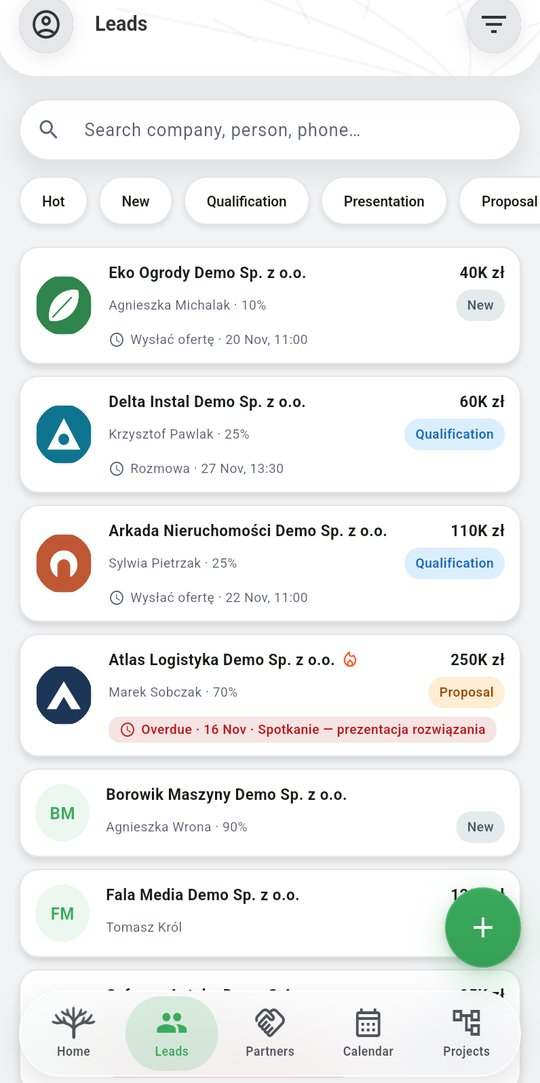
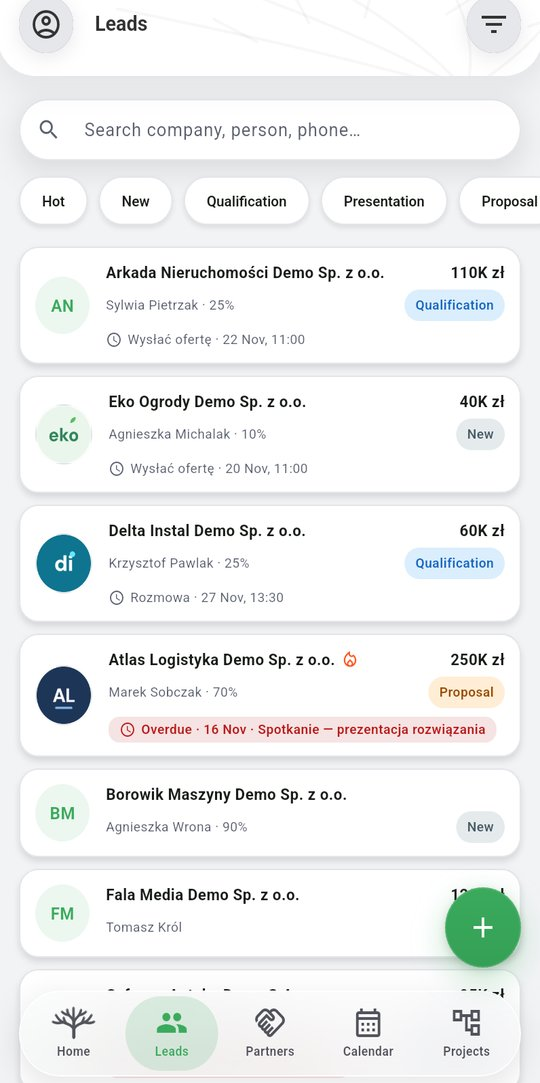
docs(instrukcja): lista leadów w telefonie z okrągłymi logotypami firm demo

diff --git a/src/assets/manual/ru.html b/src/assets/manual/ru.html
@@ -438,7 +438,7 @@ nav.toc .grp{margin:12px 0 2px;padding:0 10px;font-size:12.5px;font-weight:700;c
 <h4 id="p1-leads-mobile"><span class="tag mob">MOBILE</span>Лиды на телефоне</h4>
 <p>На вкладке <b>«Лиды»</b> есть поле <b>«Поиск компании, контакта, телефона…»</b> и чипы для <b>«Горячий»</b> и каждого этапа (<b>«Новый»</b>, <b>«Квалификация»</b>, <b>«Презентация»</b> и так далее). Сначала идут недавно обновлённые лиды. В первой строке плитки — компания и сумма (например, <b>«250 тыс. zł»</b>), во второй — контакт с вероятностью, справа — этап. Третья строка появляется только при задаче со сроком: просроченная — красной меткой <b>«Просроченные · 10 нояб. · …»</b>, ближайшая запланированная — серым. Пламя рядом с названием означает горячий лид. Значок воронки в правом верхнем углу открывает <b>«Фильтры»</b>: <b>«Этап»</b> (включая «Архив»), <b>«Источник»</b>, переключатели <b>«Горячий»</b>, <b>«Только на паузе»</b> и <b>«Только мои»</b>, а для руководителей – <b>«Менеджер по продажам»</b>. Завершите кнопкой <b>«Сбросить»</b> или <b>«Применить»</b>.</p>
 <div class="phones">
-<figure class="phone"><img loading="lazy" src="img/en_t13_leads_list.jpg?v=20261116c" width="540" height="1083" alt="Список лидов на телефоне"><figcaption>«Лиды»: поиск, чипы этапов и плитки лидов.</figcaption></figure>
+<figure class="phone"><img loading="lazy" src="img/en_t13_leads_list.jpg?v=20261116d" width="540" height="1083" alt="Список лидов на телефоне"><figcaption>«Лиды»: поиск, чипы этапов и плитки лидов.</figcaption></figure>
 <figure class="phone"><img loading="lazy" src="img/en_t14_leads_filters.jpg?v=20261113" width="540" height="1083" alt="Фильтры лидов"><figcaption>«Фильтры»: этап, источник, горячий, на паузе, только мои.</figcaption></figure>
 </div>
 </section>

diff --git a/src/assets/manual/fr.html b/src/assets/manual/fr.html
@@ -438,7 +438,7 @@ nav.toc .grp{margin:12px 0 2px;padding:0 10px;font-size:12.5px;font-weight:700;c
 <h4 id="p1-leads-mobile"><span class="tag mob">MOBILE</span>Les leads sur le téléphone</h4>
 <p>L’onglet <b>« Leads »</b> comporte un champ <b>« Rechercher une société, une personne, un téléphone… »</b> et des puces pour <b>« Chauds »</b> et chaque étape (<b>« Nouveau »</b>, <b>« Qualification »</b>, <b>« Présentation »</b>, etc.). Les leads récemment mis à jour viennent en premier. La première ligne de la tuile affiche l’entreprise et la valeur (par exemple <b>« 250 k zł »</b>), la deuxième le contact avec la probabilité et, à droite, l’étape. Une troisième ligne n’apparaît que pour une activité datée : en retard sous forme d’étiquette rouge <b>« En retard · 10 nov. · … »</b>, la prochaine prévue en gris. Une flamme à côté du nom signale un lead chaud. L’icône d’entonnoir en haut à droite ouvre les <b>« Filtres »</b> : <b>« Étape »</b> (y compris Archivés), <b>« Source »</b>, des interrupteurs pour <b>« Chauds »</b>, <b>« En attente uniquement »</b> et <b>« Les miens uniquement »</b>, et pour les responsables <b>« Commercial »</b>. Terminez avec <b>« Effacer »</b> ou <b>« Appliquer »</b>.</p>
 <div class="phones">
-<figure class="phone"><img loading="lazy" src="img/en_t13_leads_list.jpg?v=20261116c" width="540" height="1083" alt="Liste des leads sur le téléphone"><figcaption>« Leads » : recherche, puces d’étapes et tuiles de leads.</figcaption></figure>
+<figure class="phone"><img loading="lazy" src="img/en_t13_leads_list.jpg?v=20261116d" width="540" height="1083" alt="Liste des leads sur le téléphone"><figcaption>« Leads » : recherche, puces d’étapes et tuiles de leads.</figcaption></figure>
 <figure class="phone"><img loading="lazy" src="img/en_t14_leads_filters.jpg?v=20261113" width="540" height="1083" alt="Filtres des leads"><figcaption>« Filtres » : étape, source, chaud, en attente, les miens uniquement.</figcaption></figure>
 </div>
 </section>

diff --git a/src/assets/manual/ro.html b/src/assets/manual/ro.html
@@ -438,7 +438,7 @@ nav.toc .grp{margin:12px 0 2px;padding:0 10px;font-size:12.5px;font-weight:700;c
 <h4 id="p1-leads-mobile"><span class="tag mob">MOBILE</span>Leaduri pe telefon</h4>
 <p>Fila <b>„Leaduri”</b> are o casetă <b>„Căutați companie, persoană, telefon…”</b> și chipuri pentru <b>„Fierbinți”</b> și pentru fiecare etapă (<b>„Nou”</b>, <b>„Calificare”</b>, <b>„Prezentare”</b> și așa mai departe). Leadurile actualizate recent apar primele. Primul rând al cardului arată compania și valoarea (de exemplu <b>„250 mii zł”</b>), al doilea contactul cu probabilitatea, iar în dreapta etapa. Un al treilea rând apare doar pentru o activitate cu termen: cea restantă ca etichetă roșie <b>„Restante · 10 nov. · …”</b>, următoarea planificată cu gri. O flacără lângă nume marchează un lead fierbinte. Pictograma pâlnie din colțul din dreapta sus deschide <b>„Filtre”</b>: <b>„Etapă”</b> (inclusiv Arhivat), <b>„Sursă”</b>, comutatoare pentru <b>„Fierbinți”</b>, <b>„Doar în așteptare”</b> și <b>„Doar ale mele”</b>, iar pentru manageri <b>„Agent de vânzări”</b>. Încheiați cu <b>„Resetare”</b> sau <b>„Aplicare”</b>.</p>
 <div class="phones">
-<figure class="phone"><img loading="lazy" src="img/en_t13_leads_list.jpg?v=20261116c" width="540" height="1083" alt="Lista de leaduri pe telefon"><figcaption>„Leaduri”: căutare, chipuri de etapă și casete de leaduri.</figcaption></figure>
+<figure class="phone"><img loading="lazy" src="img/en_t13_leads_list.jpg?v=20261116d" width="540" height="1083" alt="Lista de leaduri pe telefon"><figcaption>„Leaduri”: căutare, chipuri de etapă și casete de leaduri.</figcaption></figure>
 <figure class="phone"><img loading="lazy" src="img/en_t14_leads_filters.jpg?v=20261113" width="540" height="1083" alt="Filtre pentru leaduri"><figcaption>„Filtre”: etapă, sursă, fierbinte, în așteptare, doar ale mele.</figcaption></figure>
 </div>
 </section>

diff --git a/src/assets/manual/es.html b/src/assets/manual/es.html
@@ -437,7 +437,7 @@ nav.toc .grp{margin:12px 0 2px;padding:0 10px;font-size:12.5px;font-weight:700;c
 <h4 id="p1-leads-mobile"><span class="tag mob">MOBILE</span>Leads en el móvil</h4>
 <p>La pestaña <b>“Leads”</b> tiene un cuadro <b>“Buscar empresa, persona, teléfono…”</b> y chips para <b>“Calientes”</b> y cada etapa (<b>“Nuevo”</b>, <b>“Cualificación”</b>, <b>“Presentación”</b>, etc.). Los leads actualizados más recientemente aparecen primero. La primera línea de la tarjeta muestra la empresa y el valor (por ejemplo <b>«250 mil zł»</b>), la segunda el contacto con la probabilidad y, a la derecha, la etapa. Una tercera línea aparece solo si hay una actividad con fecha: la atrasada como etiqueta roja <b>«Atrasadas · 10 nov · …»</b>, la próxima planificada en gris. Una llama junto al nombre indica un lead caliente. El icono de embudo de la esquina superior derecha abre <b>“Filtros”</b>: <b>“Etapa”</b> (incluidos los archivados), <b>“Origen”</b>, interruptores para <b>“Calientes”</b>, <b>“Solo en espera”</b> y <b>“Solo los míos”</b> y, para los responsables, <b>“Comercial”</b>. Termina con <b>“Borrar”</b> o <b>“Aplicar”</b>.</p>
 <div class="phones">
-<figure class="phone"><img loading="lazy" src="img/en_t13_leads_list.jpg?v=20261116c" width="540" height="1083" alt="Lista de leads en el móvil"><figcaption>“Leads”: búsqueda, chips de etapa y tarjetas de leads.</figcaption></figure>
+<figure class="phone"><img loading="lazy" src="img/en_t13_leads_list.jpg?v=20261116d" width="540" height="1083" alt="Lista de leads en el móvil"><figcaption>“Leads”: búsqueda, chips de etapa y tarjetas de leads.</figcaption></figure>
 <figure class="phone"><img loading="lazy" src="img/en_t14_leads_filters.jpg?v=20261113" width="540" height="1083" alt="Filtros de leads"><figcaption>“Filtros”: etapa, origen, calientes, en espera, solo los míos.</figcaption></figure>
 </div>
 </section>

diff --git a/src/assets/manual/de.html b/src/assets/manual/de.html
@@ -438,7 +438,7 @@ nav.toc .grp{margin:12px 0 2px;padding:0 10px;font-size:12.5px;font-weight:700;c
 <h4 id="p1-leads-mobile"><span class="tag mob">MOBILE</span>Leads auf dem Handy</h4>
 <p>Die Registerkarte <b>„Leads“</b> hat ein Feld <b>„Firma, Person, Telefon suchen …“</b> und Chips für <b>„Heiß“</b> und jede Phase (<b>„Neu“</b>, <b>„Qualifizierung“</b>, <b>„Präsentation“</b> und so weiter). Zuletzt aktualisierte Leads stehen oben. Die erste Zeile einer Kachel zeigt Firma und Wert (zum Beispiel <b>„250.000 zł“</b>), die zweite den Kontakt mit der Wahrscheinlichkeit, rechts die Phase. Eine dritte Zeile erscheint nur bei einer terminierten Aktivität: eine überfällige als rotes Etikett <b>„Überfällig · 10. Nov. · …“</b>, die nächste geplante in Grau. Eine Flamme neben dem Namen kennzeichnet einen heißen Lead. Das Trichtersymbol in der oberen rechten Ecke öffnet die <b>„Filter“</b>: <b>„Phase“</b> (einschließlich Archiviert), <b>„Quelle“</b>, Schalter für <b>„Heiß“</b>, <b>„Nur zurückgestellte“</b> und <b>„Nur meine“</b> sowie für Vertriebsleiter <b>„Vertriebsmitarbeiter“</b>. Abschließen mit <b>„Löschen“</b> oder <b>„Anwenden“</b>.</p>
 <div class="phones">
-<figure class="phone"><img loading="lazy" src="img/en_t13_leads_list.jpg?v=20261116c" width="540" height="1083" alt="Lead-Liste auf dem Handy"><figcaption>„Leads“: Suche, Phasen-Chips und Lead-Kacheln.</figcaption></figure>
+<figure class="phone"><img loading="lazy" src="img/en_t13_leads_list.jpg?v=20261116d" width="540" height="1083" alt="Lead-Liste auf dem Handy"><figcaption>„Leads“: Suche, Phasen-Chips und Lead-Kacheln.</figcaption></figure>
 <figure class="phone"><img loading="lazy" src="img/en_t14_leads_filters.jpg?v=20261113" width="540" height="1083" alt="Lead-Filter"><figcaption>„Filter“: Phase, Quelle, heiß, zurückgestellt, nur meine.</figcaption></figure>
 </div>
 </section>

diff --git a/src/assets/manual/it.html b/src/assets/manual/it.html
@@ -438,7 +438,7 @@ nav.toc .grp{margin:12px 0 2px;padding:0 10px;font-size:12.5px;font-weight:700;c
 <h4 id="p1-leads-mobile"><span class="tag mob">MOBILE</span>I lead sul telefono</h4>
 <p>La scheda <b>«Lead»</b> ha una casella <b>«Cerca azienda, persona, telefono…»</b> e chip per <b>«Caldi»</b> e per ogni fase (<b>«Nuovo»</b>, <b>«Qualificazione»</b>, <b>«Presentazione»</b> e così via). I lead aggiornati di recente compaiono per primi. La prima riga della scheda mostra azienda e valore (ad esempio <b>«250.000 zł»</b>), la seconda il contatto con la probabilità e, a destra, la fase. Una terza riga compare solo per un’attività con scadenza: quella in ritardo come etichetta rossa <b>«In ritardo · 10 nov · …»</b>, la prossima pianificata in grigio. Una fiamma accanto al nome indica un lead caldo. L'icona a imbuto nell'angolo in alto a destra apre i <b>«Filtri»</b>: <b>«Fase»</b> (incluso Archiviato), <b>«Origine»</b>, interruttori per <b>«Caldi»</b>, <b>«Solo in sospeso»</b> e <b>«Solo i miei»</b> e, per i responsabili, <b>«Commerciale»</b>. Concludi con <b>«Cancella»</b> o <b>«Applica»</b>.</p>
 <div class="phones">
-<figure class="phone"><img loading="lazy" src="img/en_t13_leads_list.jpg?v=20261116c" width="540" height="1083" alt="Elenco dei lead sul telefono"><figcaption>«Lead»: ricerca, chip delle fasi e riquadri dei lead.</figcaption></figure>
+<figure class="phone"><img loading="lazy" src="img/en_t13_leads_list.jpg?v=20261116d" width="540" height="1083" alt="Elenco dei lead sul telefono"><figcaption>«Lead»: ricerca, chip delle fasi e riquadri dei lead.</figcaption></figure>
 <figure class="phone"><img loading="lazy" src="img/en_t14_leads_filters.jpg?v=20261113" width="540" height="1083" alt="Filtri dei lead"><figcaption>«Filtri»: fase, origine, caldi, in sospeso, solo i miei.</figcaption></figure>
 </div>
 </section>

diff --git a/src/assets/manual/hr.html b/src/assets/manual/hr.html
@@ -438,7 +438,7 @@ nav.toc .grp{margin:12px 0 2px;padding:0 10px;font-size:12.5px;font-weight:700;c
 <h4 id="p1-leads-mobile"><span class="tag mob">MOBILE</span>Leadovi na telefonu</h4>
 <p>Kartica <b>„Leadovi”</b> ima okvir <b>„Traži tvrtku, osobu, telefon…”</b> i čipove za <b>„Vrući”</b> i svaku fazu (<b>„Novi”</b>, <b>„Kvalifikacija”</b>, <b>„Prezentacija”</b> i tako dalje). Nedavno ažurirani leadovi dolaze prvi. Prvi redak pločice prikazuje tvrtku i vrijednost (na primjer <b>„250 tis. zł”</b>), drugi kontakt s vjerojatnošću, a desno fazu. Treći redak pojavljuje se samo uz aktivnost s rokom: zakašnjela kao crvena oznaka <b>„Zakašnjelo · 10. stu · …”</b>, sljedeća planirana sivo. Plamen uz naziv označava vrući lead. Ikona lijevka u gornjem desnom kutu otvara <b>„Filtri”</b>: <b>„Faza”</b> (uključujući arhivirane), <b>„Izvor”</b>, prekidače za <b>„Vrući”</b>, <b>„Samo na čekanju”</b> i <b>„Samo moji”</b>, a za menadžere i <b>„Prodavač”</b>. Završite s <b>„Očisti”</b> ili <b>„Primijeni”</b>.</p>
 <div class="phones">
-<figure class="phone"><img loading="lazy" src="img/en_t13_leads_list.jpg?v=20261116c" width="540" height="1083" alt="Popis leadova na telefonu"><figcaption>„Leadovi”: pretraživanje, čipovi faza i pločice leadova.</figcaption></figure>
+<figure class="phone"><img loading="lazy" src="img/en_t13_leads_list.jpg?v=20261116d" width="540" height="1083" alt="Popis leadova na telefonu"><figcaption>„Leadovi”: pretraživanje, čipovi faza i pločice leadova.</figcaption></figure>
 <figure class="phone"><img loading="lazy" src="img/en_t14_leads_filters.jpg?v=20261113" width="540" height="1083" alt="Filtri leadova"><figcaption>„Filtri”: faza, izvor, vrući, na čekanju, samo moji.</figcaption></figure>
 </div>
 </section>

diff --git a/src/assets/manual/pl.html b/src/assets/manual/pl.html
@@ -439,7 +439,7 @@ nav.toc .grp{margin:12px 0 2px;padding:0 10px;font-size:12.5px;font-weight:700;c
 <h4 id="p1-leads-mobile"><span class="tag mob">MOBILE</span>Leady w telefonie</h4>
 <p>Zakładka <b>„Leady”</b> ma wyszukiwarkę <b>„Szukaj firmy, osoby, telefonu…”</b> i chipy: <b>„Gorące”</b> oraz etapy (<b>„Nowy”</b>, <b>„Kwalifikacja”</b>, <b>„Prezentacja”</b> i dalsze). Na górze są leady zmieniane ostatnio. Kafel leada ma w pierwszej linii firmę i wartość (np. <b>„250 tys. zł”</b>), w drugiej kontakt z prawdopodobieństwem, a po prawej etap. Trzecia linia pojawia się tylko przy zadaniu z terminem: zaległe jako czerwona plakietka <b>„Zaległe · 10 lis · …”</b>, najbliższe na szaro. Płomień przy nazwie oznacza gorący lead. Ikona lejka w prawym górnym rogu otwiera <b>„Filtry”</b>: <b>„Etap”</b> (także „Archiwum”), <b>„Źródło”</b>, przełączniki <b>„Gorące”</b>, <b>„Tylko na Holdzie”</b>, <b>„Tylko moje”</b>, a u kierownika <b>„Handlowiec”</b>. Przyciski: <b>„Wyczyść”</b> i <b>„Zastosuj”</b>.</p>
 <div class="phones">
-<figure class="phone"><img loading="lazy" src="img/pl_t13_leads_list.jpg?v=20261116c" width="540" height="1083" alt="Lista leadów w telefonie"><figcaption>„Leady”: wyszukiwarka, chipy etapów, kafle leadów.</figcaption></figure>
+<figure class="phone"><img loading="lazy" src="img/pl_t13_leads_list.jpg?v=20261116d" width="540" height="1083" alt="Lista leadów w telefonie"><figcaption>„Leady”: wyszukiwarka, chipy etapów, kafle leadów.</figcaption></figure>
 <figure class="phone"><img loading="lazy" src="img/pl_t14_leads_filters.jpg?v=20261113" width="540" height="1083" alt="Filtry leadów"><figcaption>„Filtry”: etap, źródło, gorące, Hold, tylko moje.</figcaption></figure>
 </div>
 </section>

diff --git a/src/assets/manual/en.html b/src/assets/manual/en.html
@@ -438,7 +438,7 @@ nav.toc .grp{margin:12px 0 2px;padding:0 10px;font-size:12.5px;font-weight:700;c
 <h4 id="p1-leads-mobile"><span class="tag mob">MOBILE</span>Leads on the phone</h4>
 <p>The <b>“Leads”</b> tab has a <b>“Search company, person, phone…”</b> box and chips for <b>“Hot”</b> and each stage (<b>“New”</b>, <b>“Qualification”</b>, <b>“Presentation”</b> and so on). Recently updated leads come first. The first line of a tile shows the company and the value (for example <b>“250K zł”</b>), the second the contact with the probability, and the stage on the right. A third line appears only for a dated activity: an overdue one as a red label <b>“Overdue · 10 Nov · …”</b>, the next planned one in grey. A flame next to the name marks a hot lead. The funnel icon in the top-right corner opens <b>“Filters”</b>: <b>“Stage”</b> (including Archived), <b>“Source”</b>, switches for <b>“Hot”</b>, <b>“On hold only”</b> and <b>“Mine only”</b>, and for managers <b>“Salesperson”</b>. Finish with <b>“Clear”</b> or <b>“Apply”</b>.</p>
 <div class="phones">
-<figure class="phone"><img loading="lazy" src="img/en_t13_leads_list.jpg?v=20261116c" width="540" height="1083" alt="Lead list on the phone"><figcaption>“Leads”: search, stage chips and lead tiles.</figcaption></figure>
+<figure class="phone"><img loading="lazy" src="img/en_t13_leads_list.jpg?v=20261116d" width="540" height="1083" alt="Lead list on the phone"><figcaption>“Leads”: search, stage chips and lead tiles.</figcaption></figure>
 <figure class="phone"><img loading="lazy" src="img/en_t14_leads_filters.jpg?v=20261113" width="540" height="1083" alt="Lead filters"><figcaption>“Filters”: stage, source, hot, on hold, mine only.</figcaption></figure>
 </div>
 </section>

diff --git a/src/assets/manual/sl.html b/src/assets/manual/sl.html
@@ -438,7 +438,7 @@ nav.toc .grp{margin:12px 0 2px;padding:0 10px;font-size:12.5px;font-weight:700;c
 <h4 id="p1-leads-mobile"><span class="tag mob">MOBILE</span>Leadi na telefonu</h4>
 <p>Zavihek <b>»Leadi«</b> ima polje <b>»Išči podjetje, osebo, telefon…«</b> ter čipe za <b>»Vroči«</b> in vsako fazo (<b>»Nov«</b>, <b>»Kvalifikacija«</b>, <b>»Predstavitev«</b> in tako naprej). Nedavno posodobljeni leadi so na vrhu. Prva vrstica ploščice prikaže podjetje in vrednost (na primer <b>»250 tis. zł«</b>), druga stik z verjetnostjo, desno pa fazo. Tretja vrstica se pojavi samo pri aktivnosti z rokom: zapadla kot rdeča oznaka <b>»Zapadlo · 10. nov. · …«</b>, naslednja načrtovana sivo. Plamen ob imenu označuje vroč lead. Ikona lijaka v zgornjem desnem kotu odpre <b>»Filtre«</b>: <b>»Faza«</b> (vključno z Arhivirano), <b>»Vir«</b>, stikala za <b>»Vroči«</b>, <b>»Samo zadržani«</b> in <b>»Samo moji«</b>, za vodje pa <b>»Prodajalec«</b>. Zaključite z <b>»Počisti«</b> ali <b>»Uporabi«</b>.</p>
 <div class="phones">
-<figure class="phone"><img loading="lazy" src="img/en_t13_leads_list.jpg?v=20261116c" width="540" height="1083" alt="Seznam leadov na telefonu"><figcaption>»Leadi«: iskanje, čipi faz in ploščice leadov.</figcaption></figure>
+<figure class="phone"><img loading="lazy" src="img/en_t13_leads_list.jpg?v=20261116d" width="540" height="1083" alt="Seznam leadov na telefonu"><figcaption>»Leadi«: iskanje, čipi faz in ploščice leadov.</figcaption></figure>
 <figure class="phone"><img loading="lazy" src="img/en_t14_leads_filters.jpg?v=20261113" width="540" height="1083" alt="Filtri leadov"><figcaption>»Filtri«: faza, vir, vroči, zadržani, samo moji.</figcaption></figure>
 </div>
 </section>
